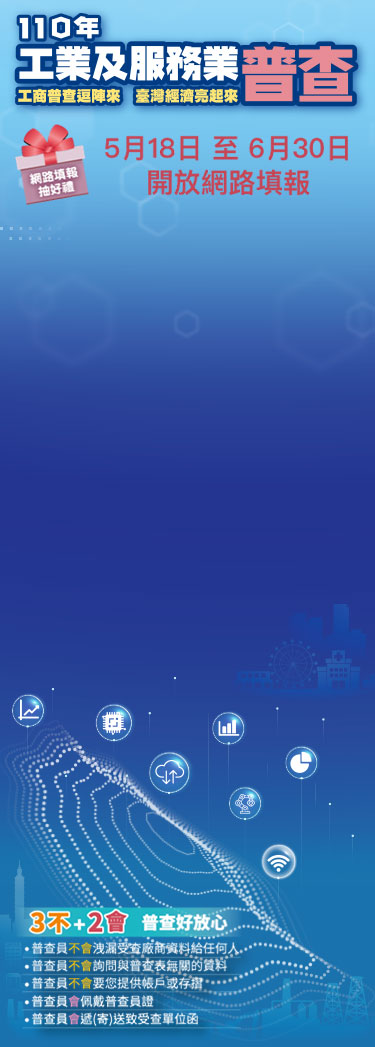
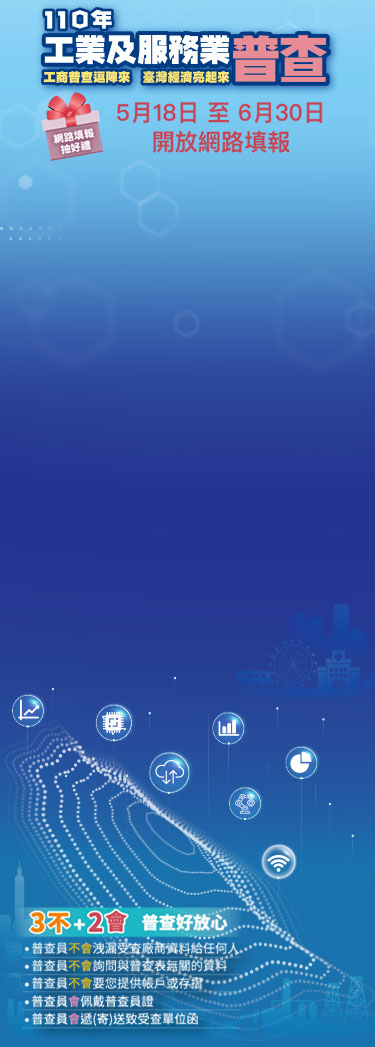
調整文字大小，光鄉復原，首頁顯示標題

Changed region(s): [[0.0293, 0.0, 0.968, 0.2139]]

diff --git a/css/public.css b/css/public.css
@@ -3014,7 +3014,7 @@ body { position: relative; display: inline-block; width: 100%; margin: 0; paddin
 
 .btn:focus { box-shadow: none !important; }
 
-@media screen and (max-width: 449px) and (min-width: 0) { .t-mt220 { margin-top: 220px; } }
+@media screen and (max-width: 449px) and (min-width: 0) { .t-mt220 { margin-top: 150px; } }
 
 .pwUse { border: 0; padding: 0.75rem 0; }
 
@@ -3035,6 +3035,8 @@ body { position: relative; display: inline-block; width: 100%; margin: 0; paddin
 
 .in-cent-bg { width: 100%; height: 100%; overflow: hidden; margin: 0; padding: 0; background: #1a5a9d url(../img/bg.jpg) center top no-repeat; -moz-background-size: cover; background-size: cover; background-repeat: no-repeat; }
 @media screen and (max-width: 449px) and (min-width: 0) { .in-cent-bg { background: #1a5a9d url(../img/m_bg.jpg) center top no-repeat; -moz-background-size: cover; background-size: cover; background-repeat: no-repeat; } }
+
+@media screen and (max-width: 449px) and (min-width: 0) { .m-100 { width: 100% !important; margin-top: 10px; } }
 
 .w-2550 { width: 25%; }
 @media screen and (max-width: 449px) and (min-width: 0) { .w-2550 { width: 50%; } }
@@ -3057,14 +3059,14 @@ body { position: relative; display: inline-block; width: 100%; margin: 0; paddin
 
 .btn_set { line-height: normal; }
 
-.btn-s { font-size: .9rem; }
+.btn-s { font-size: .9rem; padding: 0.375rem 0.45rem; }
 
 .btn-q { font-size: 1.6rem; color: #ffee0c; padding-top: 0; padding-bottom: 0; }
 .btn-q:hover { color: rgba(255, 238, 12, 0.9); }
 
 .btn-hard { display: inline-block; color: white; font-size: .9rem; border-radius: 3px; background-color: #002b5f; border: 0; outline: 0; padding: 5px; line-height: 15px; }
 
-.mob-menu-icon { font-size: 1.8rem; }
+.mob-menu-icon { font-size: 1.5rem; }
 
 .img-Hlogo { display: inline-block; width: 100%; max-width: 200px; }
 @media screen and (max-width: 449px) and (min-width: 0) { .img-Hlogo { max-width: 155px; } }
@@ -3079,8 +3081,8 @@ body { position: relative; display: inline-block; width: 100%; margin: 0; paddin
 .btn-orange { color: white; background-color: #fd7e14; }
 .btn-orange:hover { color: white; background-color: #fd9843; }
 
-.w-menu { display: inline-block; width: 100%; padding: 1rem 1.5rem; border-bottom: 1px solid white; color: #2b2b2b; font-size: 1.12rem; position: relative; padding-left: 49px; text-decoration: none; background-color: #ebf1f9; cursor: pointer; }
-.w-menu.w-menu2 { padding-left: 65px; }
+.w-menu { display: inline-block; width: 100%; padding: 1rem 1.5rem; border-bottom: 1px solid white; color: #2b2b2b; font-size: 1.12rem; position: relative; padding-left: 58px; text-decoration: none; background-color: #ebf1f9; cursor: pointer; }
+.w-menu.w-menu2 { padding-left: 74px; }
 .w-menu:before { display: inline-block; content: attr(title); margin-right: 5px; position: absolute; left: 20px; }
 .w-menu.no-border { border: 0; }
 .w-menu.stepone { padding-left: 20px; }
@@ -3089,8 +3091,8 @@ body { position: relative; display: inline-block; width: 100%; margin: 0; paddin
 .w-menu.pass-step { color: #6c757d; background-color: #e9ecef; cursor: default; }
 .w-menu > a { text-decoration: none; color: #2b2b2b; }
 
-.m-menu { display: inline-block; width: 100%; padding: 1rem 1.5rem; border-bottom: 1px solid white; color: #2b2b2b; font-size: 1.12rem; position: relative; padding-left: 49px; text-decoration: none; background-color: #ebf1f9; cursor: pointer; text-align: left; }
-.m-menu.m-menu2 { padding-left: 65px; }
+.m-menu { display: inline-block; width: 100%; padding: 1rem 1.5rem; border-bottom: 1px solid white; color: #2b2b2b; font-size: 1.12rem; position: relative; padding-left: 55px; text-decoration: none; background-color: #ebf1f9; cursor: pointer; text-align: left; }
+.m-menu.m-menu2 { padding-left: 75px; }
 .m-menu:before { display: inline-block; content: attr(title); margin-right: 5px; position: absolute; left: 20px; }
 .m-menu.no-border { border: 0; }
 .m-menu.nob { border-top: 0; border-left: 0; border-right: 0; border-bottom: 1px solid white; }
@@ -3112,7 +3114,7 @@ body { position: relative; display: inline-block; width: 100%; margin: 0; paddin
 @media screen and (max-width: 449px) and (min-width: 0) { .title-type { line-height: 33px; } }
 
 .title-type2 { font-size: 1.25rem; color: white; margin-bottom: 0; line-height: 33px; padding-left: 32px; position: relative; }
-@media screen and (max-width: 449px) and (min-width: 0) { .title-type2 { line-height: 22px; padding-left: 32px; } }
+@media screen and (max-width: 449px) and (min-width: 0) { .title-type2 { line-height: 22px; padding-left: 39px; } }
 .title-type2:before { display: inline-block; content: attr(title); position: absolute; left: 0; }
 
 .popup-r { background-color: #f8b0b0; border: 5px solid #a52121; }
@@ -3142,7 +3144,7 @@ body { position: relative; display: inline-block; width: 100%; margin: 0; paddin
 footer { display: inline-block; width: 100%; background-color: white; padding: 10px 0; }
 @media screen and (max-width: 449px) and (min-width: 0) { footer { position: inherit; } }
 
-#clockdiv { color: red; display: inline-block; margin-right: 15px; font-size: 1.1rem; line-height: 30px; }
+#clockdiv { color: red; display: inline-block; margin-right: 8px; font-size: 1.1rem; line-height: 30px; }
 
 .in-input { display: inline-block !important; width: calc(100% - 75px) !important; }
 

diff --git a/page.html b/page.html
@@ -166,16 +166,18 @@
 		<!-- 登出、變更密碼 end -->
 
 		<!-- 進度條區塊 Start-->
-		<div class="container-fluid bg-white">
+		<div class="container-fluid bg-white px-3 px-lg-5">
 			<div class="container-xl py-xl-5 py-4">
 				<div class="row">
 					<div class="col px-0">
 						<!-- 倒數計時 -->
 						<div id="clockdiv"></div>
 						<button type="button" class="btn btn-primary btn-s btn_set btn-clock-restart">重新計算</button>
-						<button type="button" class="btn btn-orange float-end d-xl-none d-inline-block btn-s btn_set">傳送</button>
-						<button type="button" class="btn btn-secondary float-end d-xl-none d-inline-block btn-s btn_set me-3">暫存</button>
-						
+						<!-- ★★★ 0221 這邊html的架構有改變 ★★★ -->
+						<div class="gx-2 float-end d-xl-none d-inline-block">
+							<button type="button" class="btn btn-orange btn-s btn_set">傳送</button>
+							<button type="button" class="btn btn-secondary btn-s btn_set">暫存</button>
+						</div>
 					</div>
 
 					<div class="w-100"></div>
@@ -363,7 +365,8 @@
 
 									<div class="col-xl-6 py-3 col-12 pb-4">
 										<label for="exampleFormControlInput1" class="form-label">負責人姓名<i
-												class="text-danger markUse">*</i></label>
+												class="text-danger markUse">*</i><!-- <button type="button" title="罕見字輸入"
+												class="btn-hard">難</button> --></label>
 										<input type="text" class="form-control" id="B06" name="B06" maxlength="30"
 											placeholder="請輸入" required>
 									</div>
@@ -388,7 +391,8 @@
 								<div class="row py-4">
 									<div class="col-12 pb-3">
 										<label for="B061" class="form-label">聯絡人姓名<i
-												class="text-danger markUse">*</i></label>
+												class="text-danger markUse">*</i><!-- <button type="button" title="罕見字輸入"
+												class="btn-hard">難</button> --></label>
 										<input type="text" class="form-control" id="B061" name="B061" maxlength="30"
 											placeholder="請輸入" required>
 									</div>
@@ -426,7 +430,8 @@
 
 									<div class="col-xl-6 py-3 col-12 pb-4">
 										<label for="B063" class="form-label">填表人姓名<i
-												class="text-danger markUse">*</i></label>
+												class="text-danger markUse">*</i><!-- <button type="button" title="罕見字輸入"
+												class="btn-hard">難</button> --></label>
 										<input type="text" class="form-control" id="B063" name="B063" maxlength="30"
 											placeholder="請輸入" required>
 									</div>
@@ -636,7 +641,8 @@
 													「 2 」企業之分支單位
 												</label>
 											</div>
-											<input type="text" class="form-control" id="_360000" name="_360000"
+											<!-- ★★★ 0221 有新增m-100 ★★★ -->
+											<input type="text" class="form-control m-100" id="_360000" name="_360000"
 												maxlength="8" placeholder="請填總管理單位之統一編號" readonly>
 										</div>
 									</div>

diff --git a/scss/public.scss b/scss/public.scss
@@ -27,7 +27,7 @@ body {
 
 .t-mt220 {
   @include range-width(0, 450px) {
-    margin-top: 220px;
+    margin-top: 150px;
   }
 }
 
@@ -99,6 +99,13 @@ body {
   }
 }
 
+.m-100 {
+  @include range-width(0, 450px) {
+    width: 100% !important;
+    margin-top: 10px;
+  }
+}
+
 .w-2550 {
   width: 25%;
 
@@ -150,6 +157,7 @@ body {
 
 .btn-s {
   font-size: .9rem;
+  padding: 0.375rem 0.45rem;
 }
 
 .btn-q {
@@ -176,7 +184,7 @@ body {
 }
 
 .mob-menu-icon {
-  font-size: 1.8rem;
+  font-size: 1.5rem;
 }
 
 .img-Hlogo {
@@ -186,6 +194,7 @@ body {
 
   @include range-width(0, 450px) {
     max-width: 155px;
+    // max-width: 193px;
   }
 
   &.inUse {
@@ -224,13 +233,13 @@ body {
   color: rgba(43, 43, 43, 1.00);
   font-size: 1.12rem;
   position: relative;
-  padding-left: 49px;
+  padding-left: 58px;
   text-decoration: none;
   background-color: $light;
   cursor: pointer;
 
   &.w-menu2 {
-    padding-left: 65px;
+    padding-left: 74px;
   }
 
   &:before {
@@ -276,14 +285,14 @@ body {
   color: rgba(43, 43, 43, 1.00);
   font-size: 1.12rem;
   position: relative;
-  padding-left: 49px;
+  padding-left: 55px;
   text-decoration: none;
   background-color: $light;
   cursor: pointer;
   text-align: left;
 
   &.m-menu2 {
-    padding-left: 65px;
+    padding-left: 75px;
   }
 
   &:before {
@@ -389,7 +398,7 @@ body {
 
   @include range-width(0, 450px) {
     line-height: 22px;
-    padding-left: 32px;
+    padding-left: 39px;
   }
 
   &:before {
@@ -543,7 +552,7 @@ footer {
 #clockdiv {
   color: red;
   display: inline-block;
-  margin-right: 15px;
+  margin-right: 8px;
   font-size: 1.1rem;
   line-height: 30px;
 }

diff --git a/index.html b/index.html
@@ -58,13 +58,13 @@
       <div class="container px-xl-0 px-5 t-mt220">
         <form action="" style="width: 100%;">
           <div class="row">
-            <div class="col-xl-7 d-xl-inline-block d-none">
-              <img src="img/kv_01.png">
-              <img src="img/kv_02.png" style="mix-blend-mode: screen;">
-              <img src="img/kv_03.png">
+            <div class="col-lg-6 d-lg-inline-block d-none">
+              <img class="img-fluid" src="img/kv_01.png">
+              <img class="img-fluid" src="img/kv_02.png" style="mix-blend-mode: screen;">
+              <img class="img-fluid" src="img/kv_03.png">
             </div>
-            <div class="col-xl-5 col-12 p-0">
-              <img src="img/s-title.png" class="container-fluid d-xl-inline-block d-none py-5">
+            <div class="col-lg-6 col-12 p-0">
+              <img src="img/s-title.png" class="container-fluid d-sm-inline-block d-none py-5">
 
               <div class="card overflow-hidden">
                 <div class="card-body py-3 px-lg-5">
